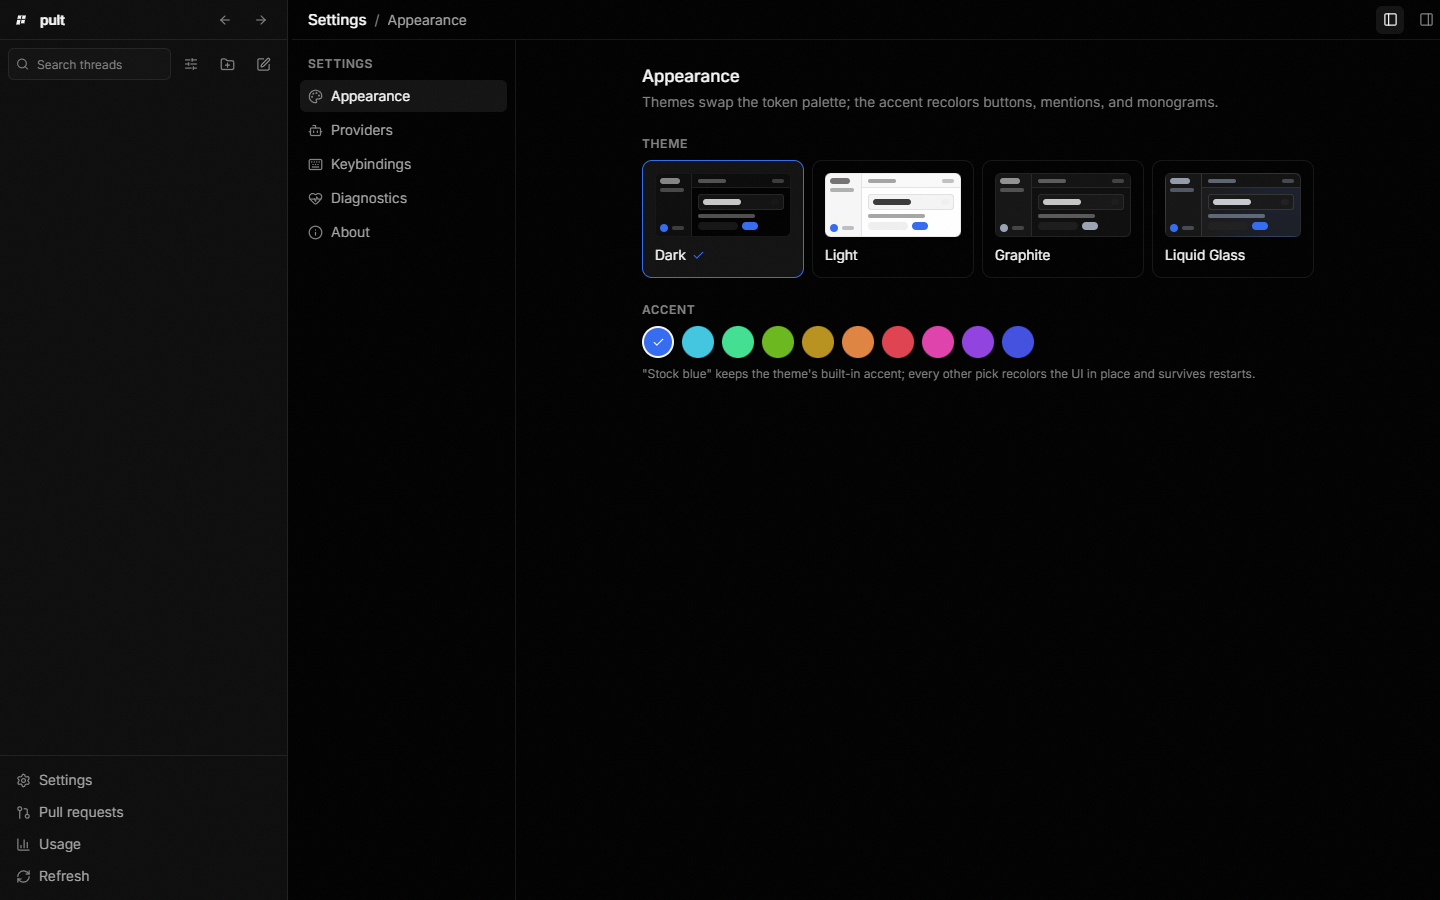
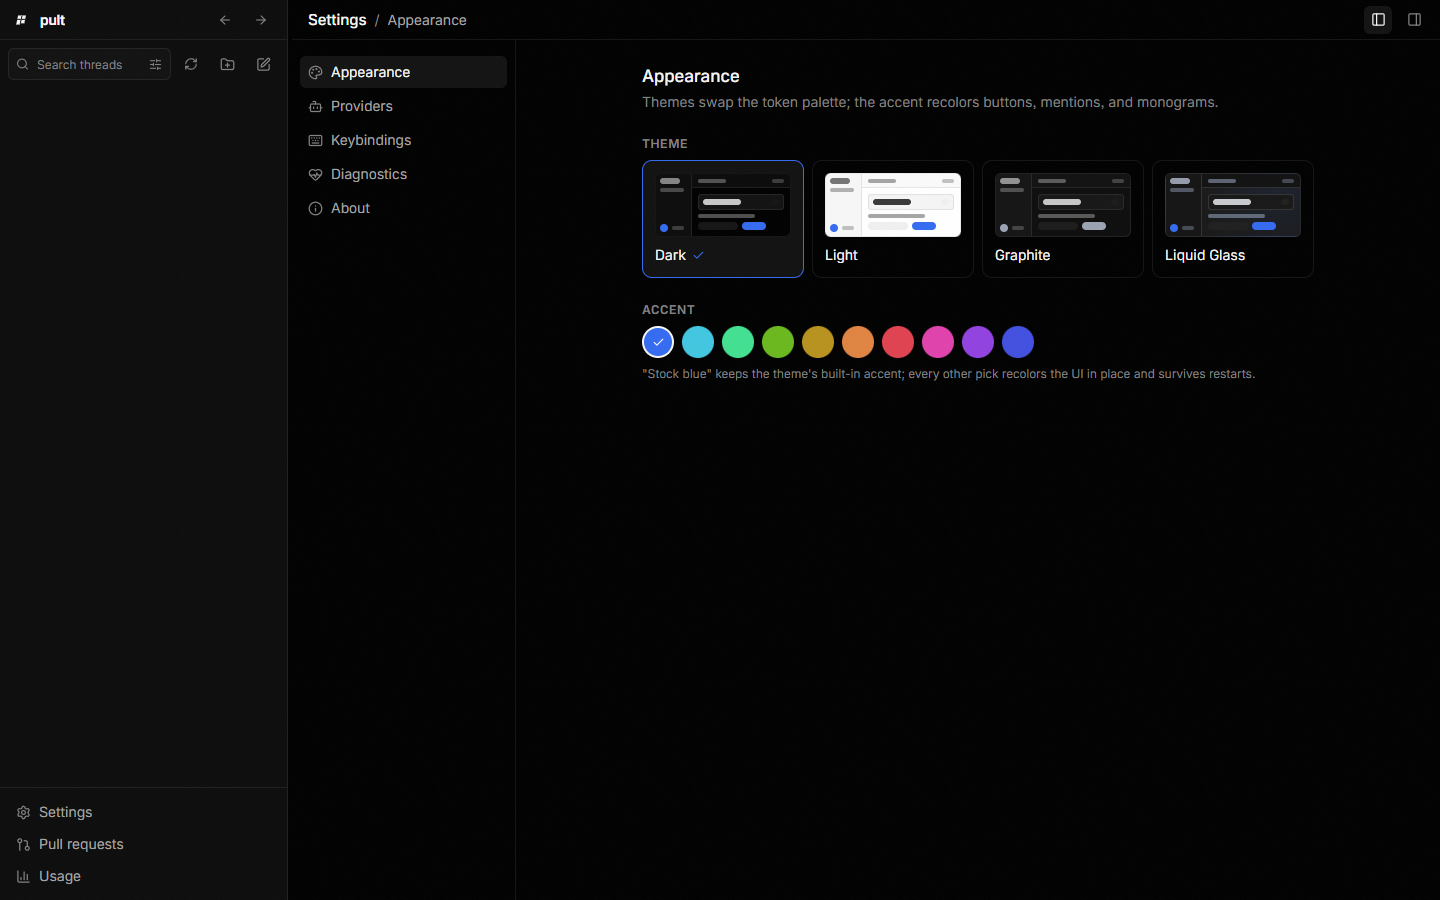
docs: record v3.1 audit and refresh screenshots

diff --git a/src/components/layout/Sidebar.tsx b/src/components/layout/Sidebar.tsx
@@ -438,8 +438,20 @@ export function Sidebar({ width }: { width: number }) {
             placeholder="Search threads"
             aria-label="Search threads"
             type="search"
-            className="h-8 w-full rounded-(--radius-sm) border border-border-subtle bg-surface pr-2 pl-7 text-xs text-text-primary placeholder:text-text-tertiary focus:border-border-strong focus:outline-none"
+            className="h-8 w-full rounded-(--radius-sm) border border-border-subtle bg-surface pr-8 pl-7 text-xs text-text-primary placeholder:text-text-tertiary focus:border-border-strong focus:outline-none"
           />
+          <button
+            type="button"
+            aria-label="Filter threads"
+            aria-haspopup="menu"
+            aria-expanded={filterOpen}
+            onClick={() => setFilterOpen((open) => !open)}
+            className={`absolute top-1/2 right-1 flex h-6 w-6 -translate-y-1/2 items-center justify-center rounded-(--radius-sm) transition hover:bg-hover hover:text-text-secondary ${
+              filter === "all" ? "text-text-tertiary" : "bg-active text-text-primary"
+            }`}
+          >
+            <SlidersHorizontal size={13} />
+          </button>
         </div>
         <button
           type="button"
@@ -450,47 +462,33 @@ export function Sidebar({ width }: { width: number }) {
         >
           <RefreshCw size={14} />
         </button>
-        <div>
-          <button
-            type="button"
-            aria-label="Filter threads"
-            aria-haspopup="menu"
-            aria-expanded={filterOpen}
-            onClick={() => setFilterOpen((open) => !open)}
-            className={`flex h-8 w-8 items-center justify-center rounded-(--radius-sm) transition hover:bg-hover hover:text-text-secondary ${
-              filter === "all" ? "text-text-tertiary" : "bg-active text-text-primary"
-            }`}
+        {filterOpen && (
+          <div
+            role="menu"
+            aria-label="Filters"
+            className="absolute top-full left-0 z-30 mt-1 w-44 rounded-(--radius-md) border border-border-strong bg-surface-raised py-1 shadow-xl"
           >
-            <SlidersHorizontal size={14} />
-          </button>
-          {filterOpen && (
-            <div
-              role="menu"
-              aria-label="Filters"
-              className="absolute top-full left-0 z-30 mt-1 w-44 rounded-(--radius-md) border border-border-strong bg-surface-raised py-1 shadow-xl"
-            >
-              {FILTERS.map((option) => (
-                <button
-                  key={option.id}
-                  type="button"
-                  role="menuitemradio"
-                  aria-checked={filter === option.id}
-                  onClick={() => {
-                    setFilter(option.id);
-                    setFilterOpen(false);
-                  }}
-                  className={`flex w-full items-center px-3 py-1.5 text-left text-xs ${
-                    filter === option.id
-                      ? "bg-active text-text-primary"
-                      : "text-text-secondary hover:bg-hover"
-                  }`}
-                >
-                  {option.label}
-                </button>
-              ))}
-            </div>
-          )}
-        </div>
+            {FILTERS.map((option) => (
+              <button
+                key={option.id}
+                type="button"
+                role="menuitemradio"
+                aria-checked={filter === option.id}
+                onClick={() => {
+                  setFilter(option.id);
+                  setFilterOpen(false);
+                }}
+                className={`flex w-full items-center px-3 py-1.5 text-left text-xs ${
+                  filter === option.id
+                    ? "bg-active text-text-primary"
+                    : "text-text-secondary hover:bg-hover"
+                }`}
+              >
+                {option.label}
+              </button>
+            ))}
+          </div>
+        )}
         <button
           type="button"
           aria-label="New project"

diff --git a/DEVLOG.md b/DEVLOG.md
@@ -2,6 +2,20 @@
 
 One entry per milestone — decisions made, deviations from the spec, known issues (§0.6).
 
+## Pult v3.1 — UI/UX audit + line-by-line code review (2026-11-15)
+
+**Scope shipped.** After v3 acceptance, Gemini audited 13 fresh screens of every route (1440×900, 1024×700, light theme, open right panel, palette, composer picker) and then reviewed every frontend file, followed by every backend module. All Critical/Important findings were fixed with regression tests; both final re-reviews returned **review clean**.
+
+**UI/UX fixes.** Providers got a real first-run empty state with an Add action (it previously said "Pick a provider on the left" with none configured); the 1180px breakpoint now auto-collapses one side rail so the transcript is never crushed; the diff header wraps instead of clipping branch/review/view controls; the command palette groups each section once, dims the page harder, traps Tab and restores focus; a global `:focus-visible` ring replaced the invisible native outline; Settings lost its duplicate "Settings" label and triple page titles (`RouteHeader` + `h2` only); Refresh moved from the sidebar footer to the search toolbar; the light-theme disabled send/composer got readable tint; icon-only controls gained labels; the theme preview accent bar is wider; About renders `version || "—"`.
+
+**Frontend review fixes.** Approval A/S/D shortcuts no longer fire while typing in inputs; new-thread send dispatches before navigating and surfaces the error; Markdown external links open in the OS browser instead of replacing the WebView, and local images reset state per `src`; the diff panel remounts per thread and re-clamps scroll when content shrinks; virtualization uses stable row refs and mount-time measurement; Providers rows are a real button+switch pair with save errors surfaced; the palette restores focus and `Mod+N` clears the project; config picks are never pushed into another provider's live session; elicitation state resets per request; terminals decode UTF-8 per stream (split codepoints survive), copy the backfill array instead of mutating state, and drop decoder/buffer on removal.
+
+**Backend review fixes.** `safe_path` now canonicalizes the nearest existing ancestor, closing arbitrary writes outside the workspace through non-existent Windows paths and symlinked parents; `record_frame` truncates on a char boundary; trailing agent events are drained before `finalize_run` instead of being discarded by the next pooled turn; Windows `.cmd` shims are tree-killed with `taskkill /T` (waited, under the child lock) so `node` grandchildren do not leak; dispatch's check-and-insert is atomic and every post-insert failure rolls the run back (typed `thread.busy`), queue pops are a single `DELETE … RETURNING` so two dispatchers cannot run one message twice, and a failed auto-dispatch re-enqueues; `git diff` validates its base against option injection and uses `EMPTY_TREE` for no-HEAD repos; agent terminals are owned per session and released on agent kill, pool eviction/invalidation and app teardown, panel PTYs are killed on thread delete, and a wedged run is force-killed before worktree removal; relative `../` paths are no longer auto-approved by Auto-edit.
+
+**Verification.** `pnpm typecheck`, `pnpm lint`, `pnpm test` 221/221 green; `cargo test --lib` 154/154 green with the known ConPTY flake skipped; `cargo clippy --all-targets -- -D warnings` clean; `pnpm build` and `pnpm tauri build --no-bundle` pass. Gemini UI/UX audit → frontend line review → backend line review → three focused re-reviews, final verdict **review clean**.
+
+**Screenshots.** `docs/screenshots/v3-*.png` were refreshed after the audit: single header, composer picker, theme previews, large-diff harness, plus `v3-providers-empty.png` and `v3-palette.png` for the two reworked screens.
+
 ## Pult v3 — single header, unified picker, real theme previews, fast diffs (2026-11-15)
 
 **Scope shipped.** Nine-task plan executed inline. The duplicate global `Topbar` is gone: one 40px `<header>` per route now carries breadcrumbs/title, panel toggles and native window controls, while the sidebar owns the only `PultLogo` + "pult" brand. The new-thread workspace strip was deleted; `/chat` threads inherit the selected project's root and worktree strategy. The composer now has one provider/model/reasoning popover under a single trigger (`[logo] model  reasoning ▾`), with provider logos, boolean reasoning On/Off states, and a provider switch that keeps the popover open. The overflow keeps session mode, permission and unrelated config toggles. Incompatible picks are pruned in the UI and filtered again in Rust against the values each agent actually advertises at handshake, so Codex never receives stale Claude model/effort keys. Typography moved to a 14px body scale (12/14/15/17/22/30) with no remaining 9–11px text utilities; diff mono is 13/22 and xterm is 14. Theme tokens are now scoped with `[data-theme="..."]` and Appearance renders real miniature windows for Dark, Light, Graphite and Liquid Glass. The diff panel loads metadata only (`git_diff_summary`), fetches a file's patch lazily on expand (`git_diff_file`, repo-root/base validation, blob-SHA `patchHash`), virtualizes rows with dynamic measurement, collapses directories for >200-file diffs, and caps a single patch at 2,000 rendered lines with a "Show all" action.
